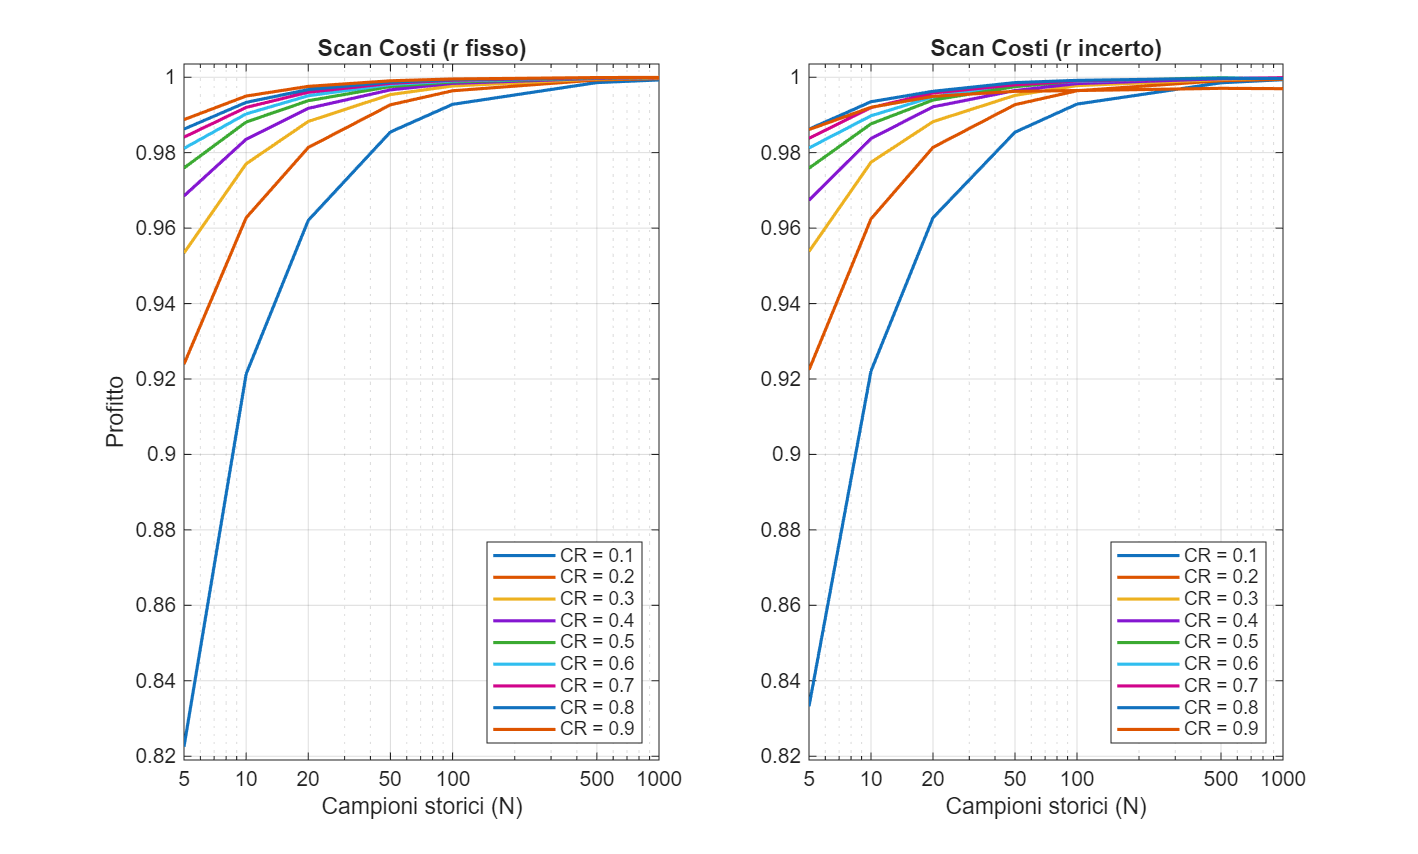
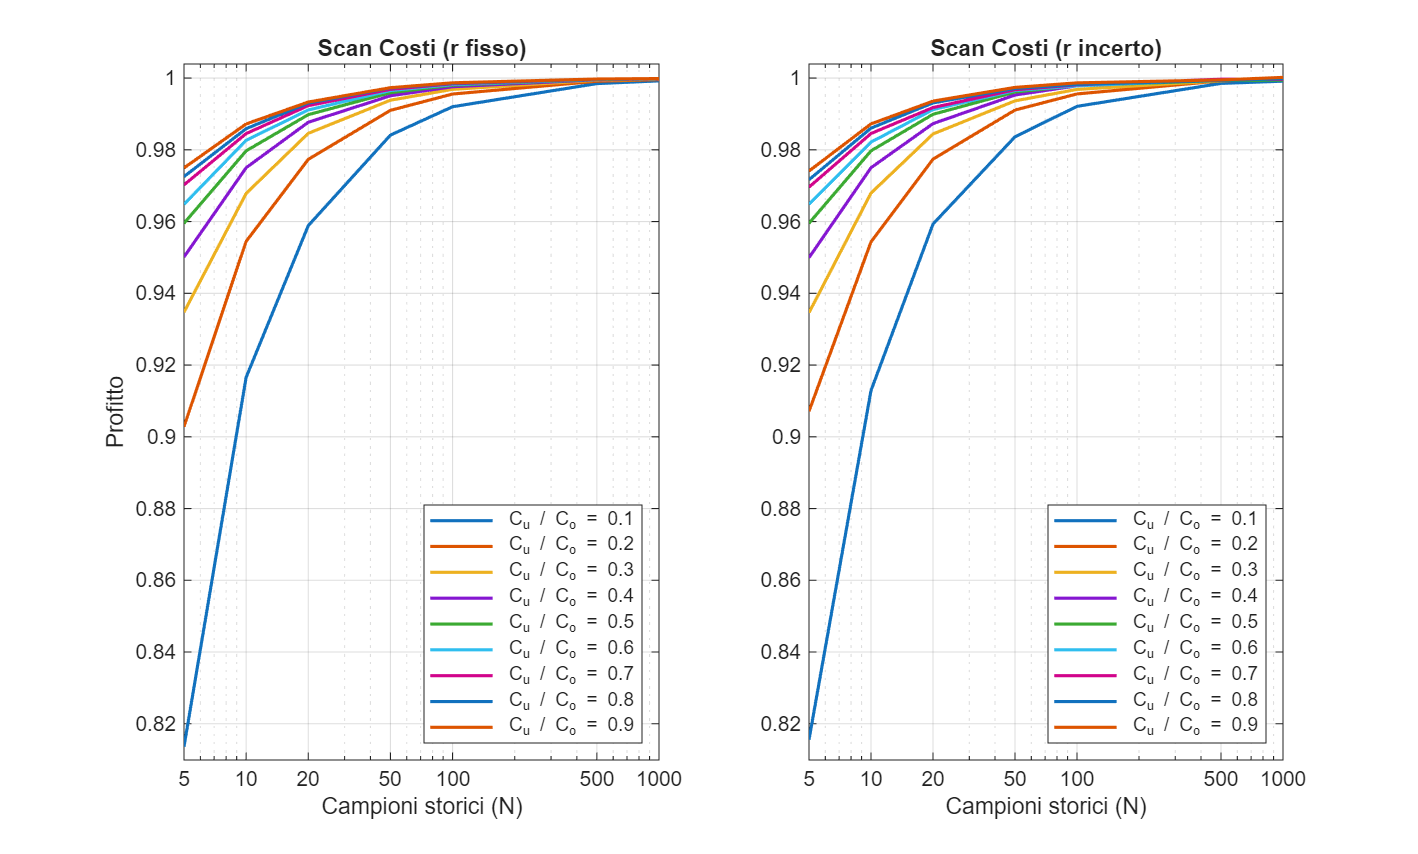
test

diff --git a/HW1/main.m b/HW1/main.m
@@ -60,7 +60,7 @@ fprintf('Esperimento 2 completato: r incerto, nessuno scan.\n');
 scan_CuCo = 0.1:0.1:0.9;
 p_scan = p * ones(length(scan_CuCo), 1);
 r_scan = r * ones(length(scan_CuCo), 1);
-c_scan = p_scan - scan_CuCo' .* (p_scan - r_scan);
+c_scan = (p_scan + scan_CuCo' .* r_scan) ./ (1 + scan_CuCo');
 
 % Pre-allocazione per esperimento 3
 profit_ratio_mean3 = zeros(length(sample_size), length(scan_CuCo));

diff --git a/HW1/dataVisualization.m b/HW1/dataVisualization.m
@@ -40,7 +40,7 @@ clf
 
 leg_cr = cell(length(cr_scan), 1);
 for i = 1:length(cr_scan)
-    leg_cr{i} = ['CR = ', num2str(cr_scan(i))];
+    leg_cr{i} = [' C_u / C_o = ', num2str(cr_scan(i))];
 end
 
 % ylim comune per i due subplot
